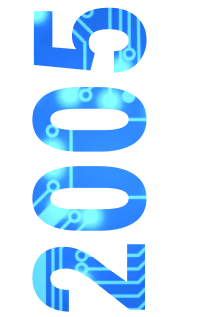
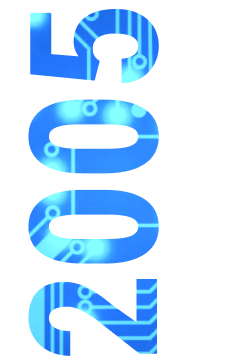
О компании

diff --git a/source/sass/blocks/about.scss b/source/sass/blocks/about.scss
@@ -1,7 +1,117 @@
 .about {
-  z-index: -1;
+  padding-bottom: 110px;
 }
 
 .about__wrapper {
   @include desktop-wrapper;
+  position: relative;
+  padding: 0 133px 0 322px;
+  color: $main-text-color;
+
+  &::before {
+    @include pseudo(220px, 317px);
+    top: 5px;
+    left: 113px;
+
+    background-image: url("../img/2005@1x.png");
+    background-size: 220px 317px;
+    background-repeat: no-repeat;
+
+    @media (min-resolution: $retina-dpi),
+      (min-resolution: $retina-dppx) {
+      background-image: url("../img/2005@2x.png");
+    }
+  }
+
+
+  & h2 {
+    margin: 0;
+    padding: 0;
+
+    font-family: "Roboto Condensed", "Arial", sans-serif;
+    font-weight: normal;
+    font-size: 2.25rem;
+    line-height: 1.42;
+  }
+
+  & p {
+    margin: 0;
+    margin-top: 22px;
+    padding: 0;
+
+    font-size: 1rem;
+    line-height: 1.37;
+  }
+
+  & .button {
+    width: 180px;
+    height: 45px;
+    margin: 0;
+    margin-top: 43px;
+    padding: 0;
+
+    color: $colored-button;
+    border-color: $colored-button;
+  }
+}
+
+@media (max-width: $tablet-width) {
+  .about {
+    padding-bottom: 83px;
+  }
+
+  .about__wrapper {
+    padding: 0 22px 0 210px;
+
+    &::before {
+      left: 0;
+      top: 0;
+      width: 244px;
+      height: 362px;
+      background-size: 244px 362px;
+    }
+
+    & h2 {
+      font-size: 2rem;
+    }
+
+    & p {
+      margin-top: 25px;
+    }
+
+    & span {
+      display: none;
+    }
+  }
+}
+
+@media (max-width: $mobile-width) {
+  .about {
+    padding-bottom: 65px;
+  }
+
+  .about__wrapper {
+    min-width: $min-mobile-width;
+    padding: 0 14px;
+
+    &::before {
+      display: none;
+    }
+
+    & h2 {
+      font-size: 28px;
+    }
+
+    & p {
+      margin-top: 22px;
+    }
+
+    & p:nth-of-type(2n) {
+      margin-top: 46px;
+    }
+
+    & .button {
+      margin-top: 34px;
+    }
+  }
 }

diff --git a/source/index.html b/source/index.html
@@ -102,10 +102,10 @@
             года. Выполняем срочные заказы и пилотные образцы до 10 дней.</p>
           <p>Наши поставщики - мировые производители электронных компонентов: OSRAM, CREE, HOLGLITRONIC, REFOND.
             Печатные
-            платы и комплектующие Service Devices применяются на предприятиях Российских Железных Дорог (РЖД),
-            РоссАвтоПрома (ВАЗ, АвтоГАЗ), МинАтома, СпецМедТехники. Среди наших клиентов крупнейшие Производители
-            светотехники России.</p>
-          <a href="" class="button button--transparent"></a>
+            платы и комплектующие Service Devices применяются на предприятиях Российских Железных Дорог <span>(РЖД),
+              РоссАвтоПрома (ВАЗ, АвтоГАЗ), МинАтома, СпецМедТехники. Среди наших клиентов крупнейшие Производители
+              светотехники России.</span> </p>
+          <a href="#" class="button button--transparent">Подробнее</a>
         </div>
       </section>
     </div>

diff --git a/source/sass/blocks/advantages.scss b/source/sass/blocks/advantages.scss
@@ -1,6 +1,6 @@
 .advantages {
   width: 100%;
-  padding-bottom: 95px;
+  padding-bottom: 88px;
   padding-top: 95px;
 }
 
@@ -118,6 +118,7 @@
 @media (max-width: $tablet-width) {
   .advantages {
     padding-top: 40px;
+    padding-bottom: 40px;
   }
 
   .advantages__wrapper {
